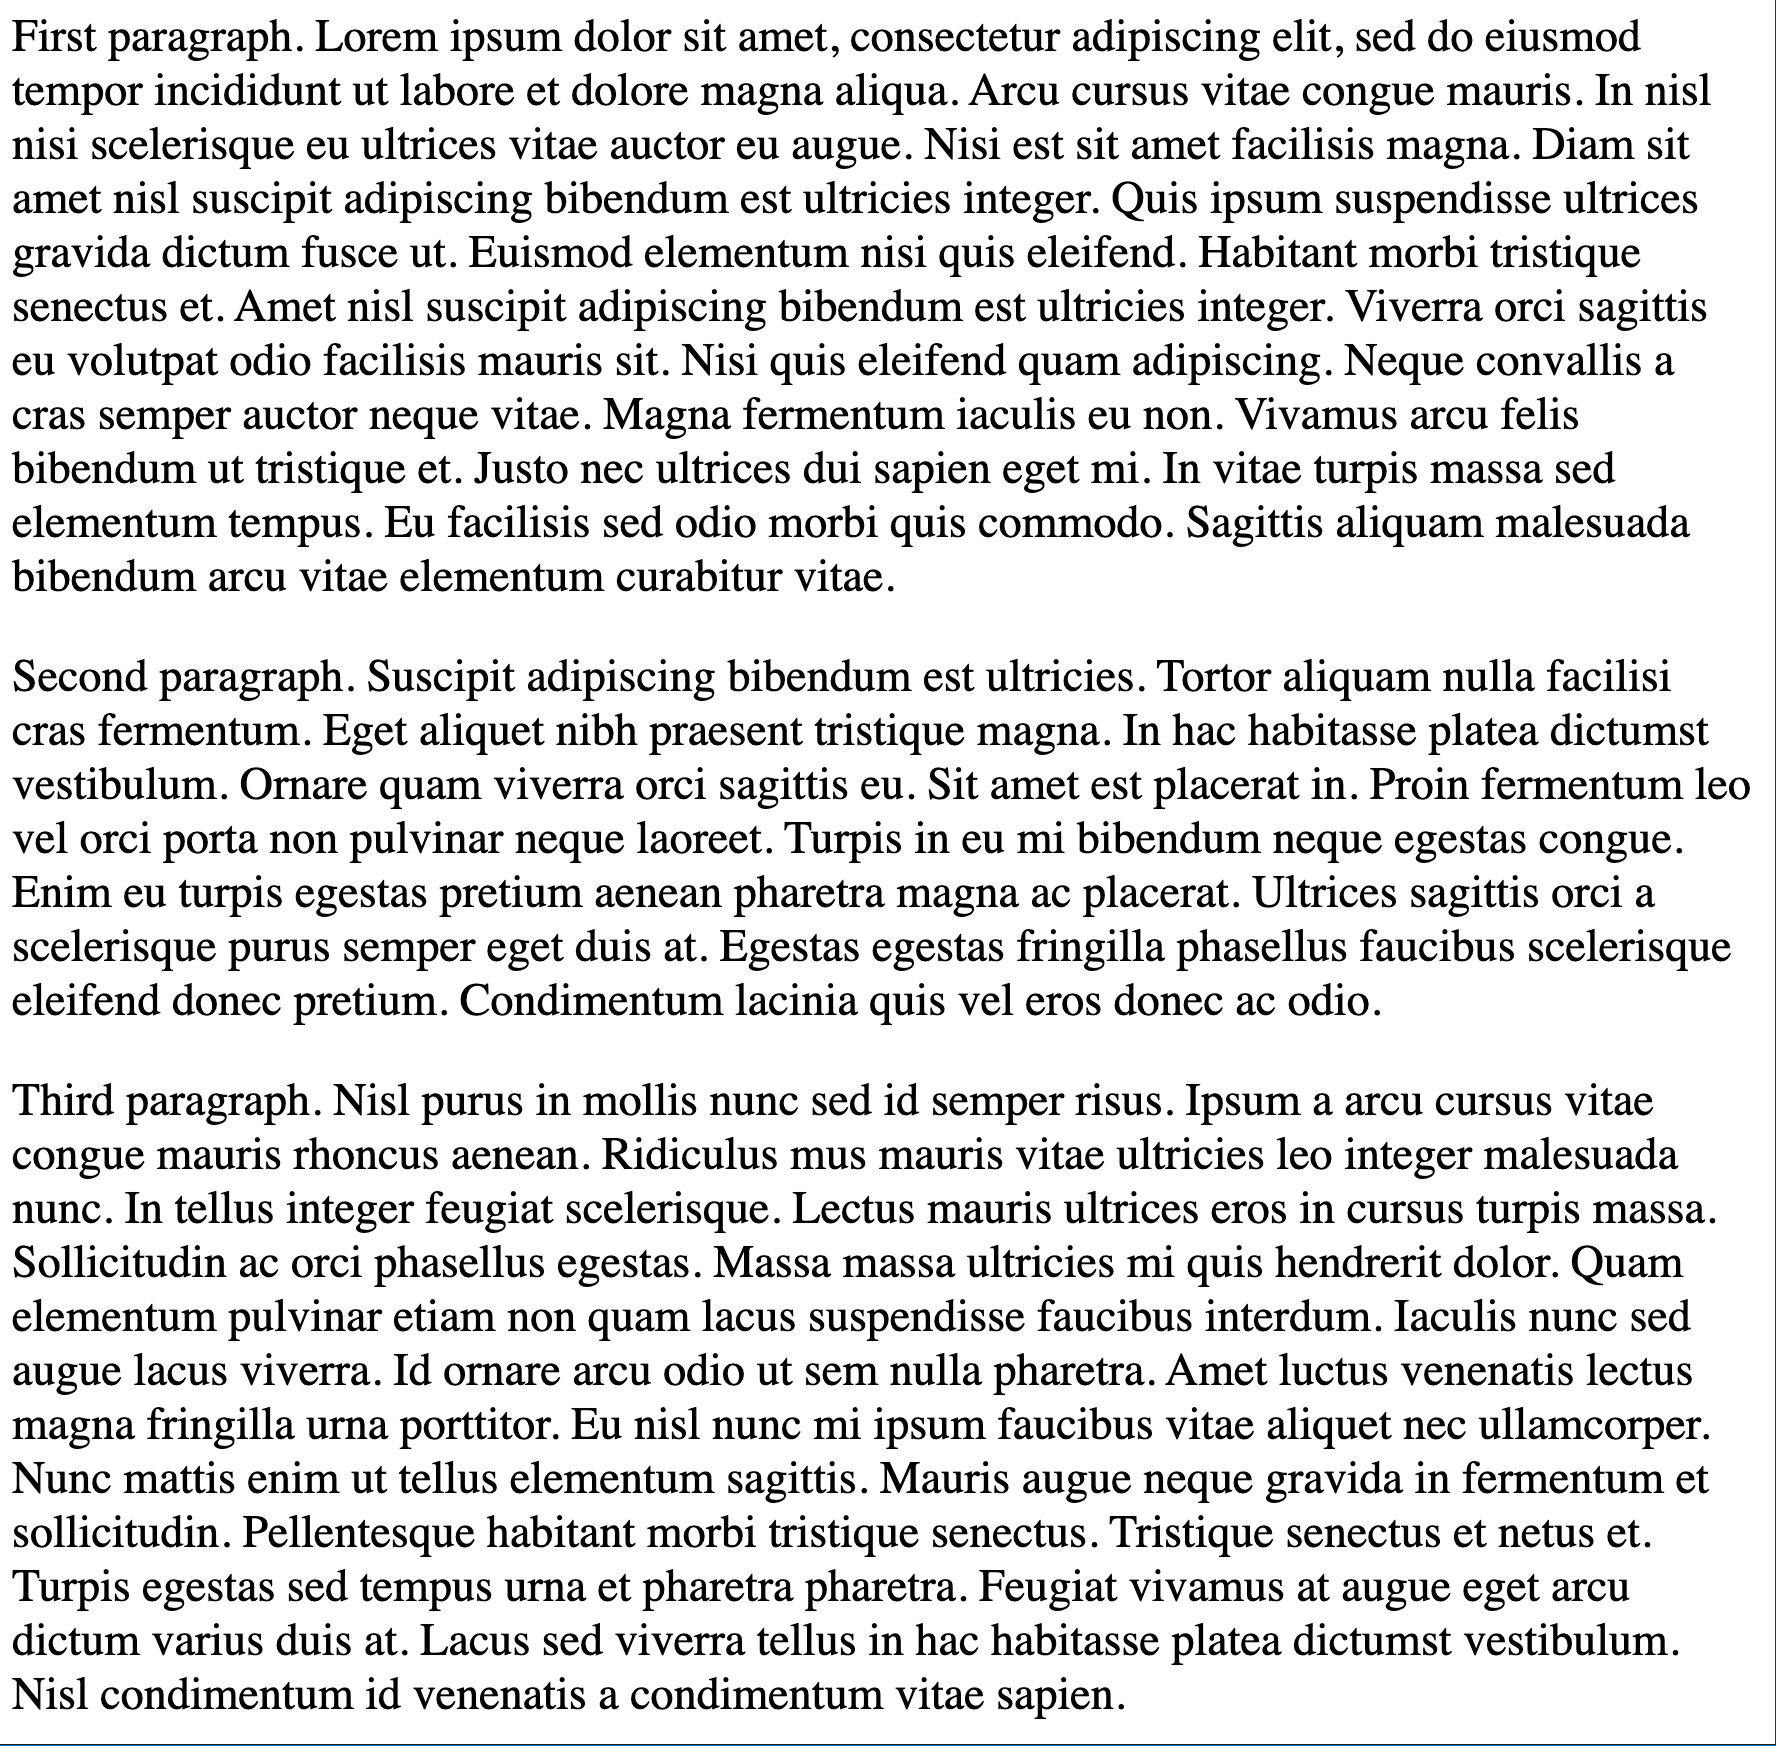
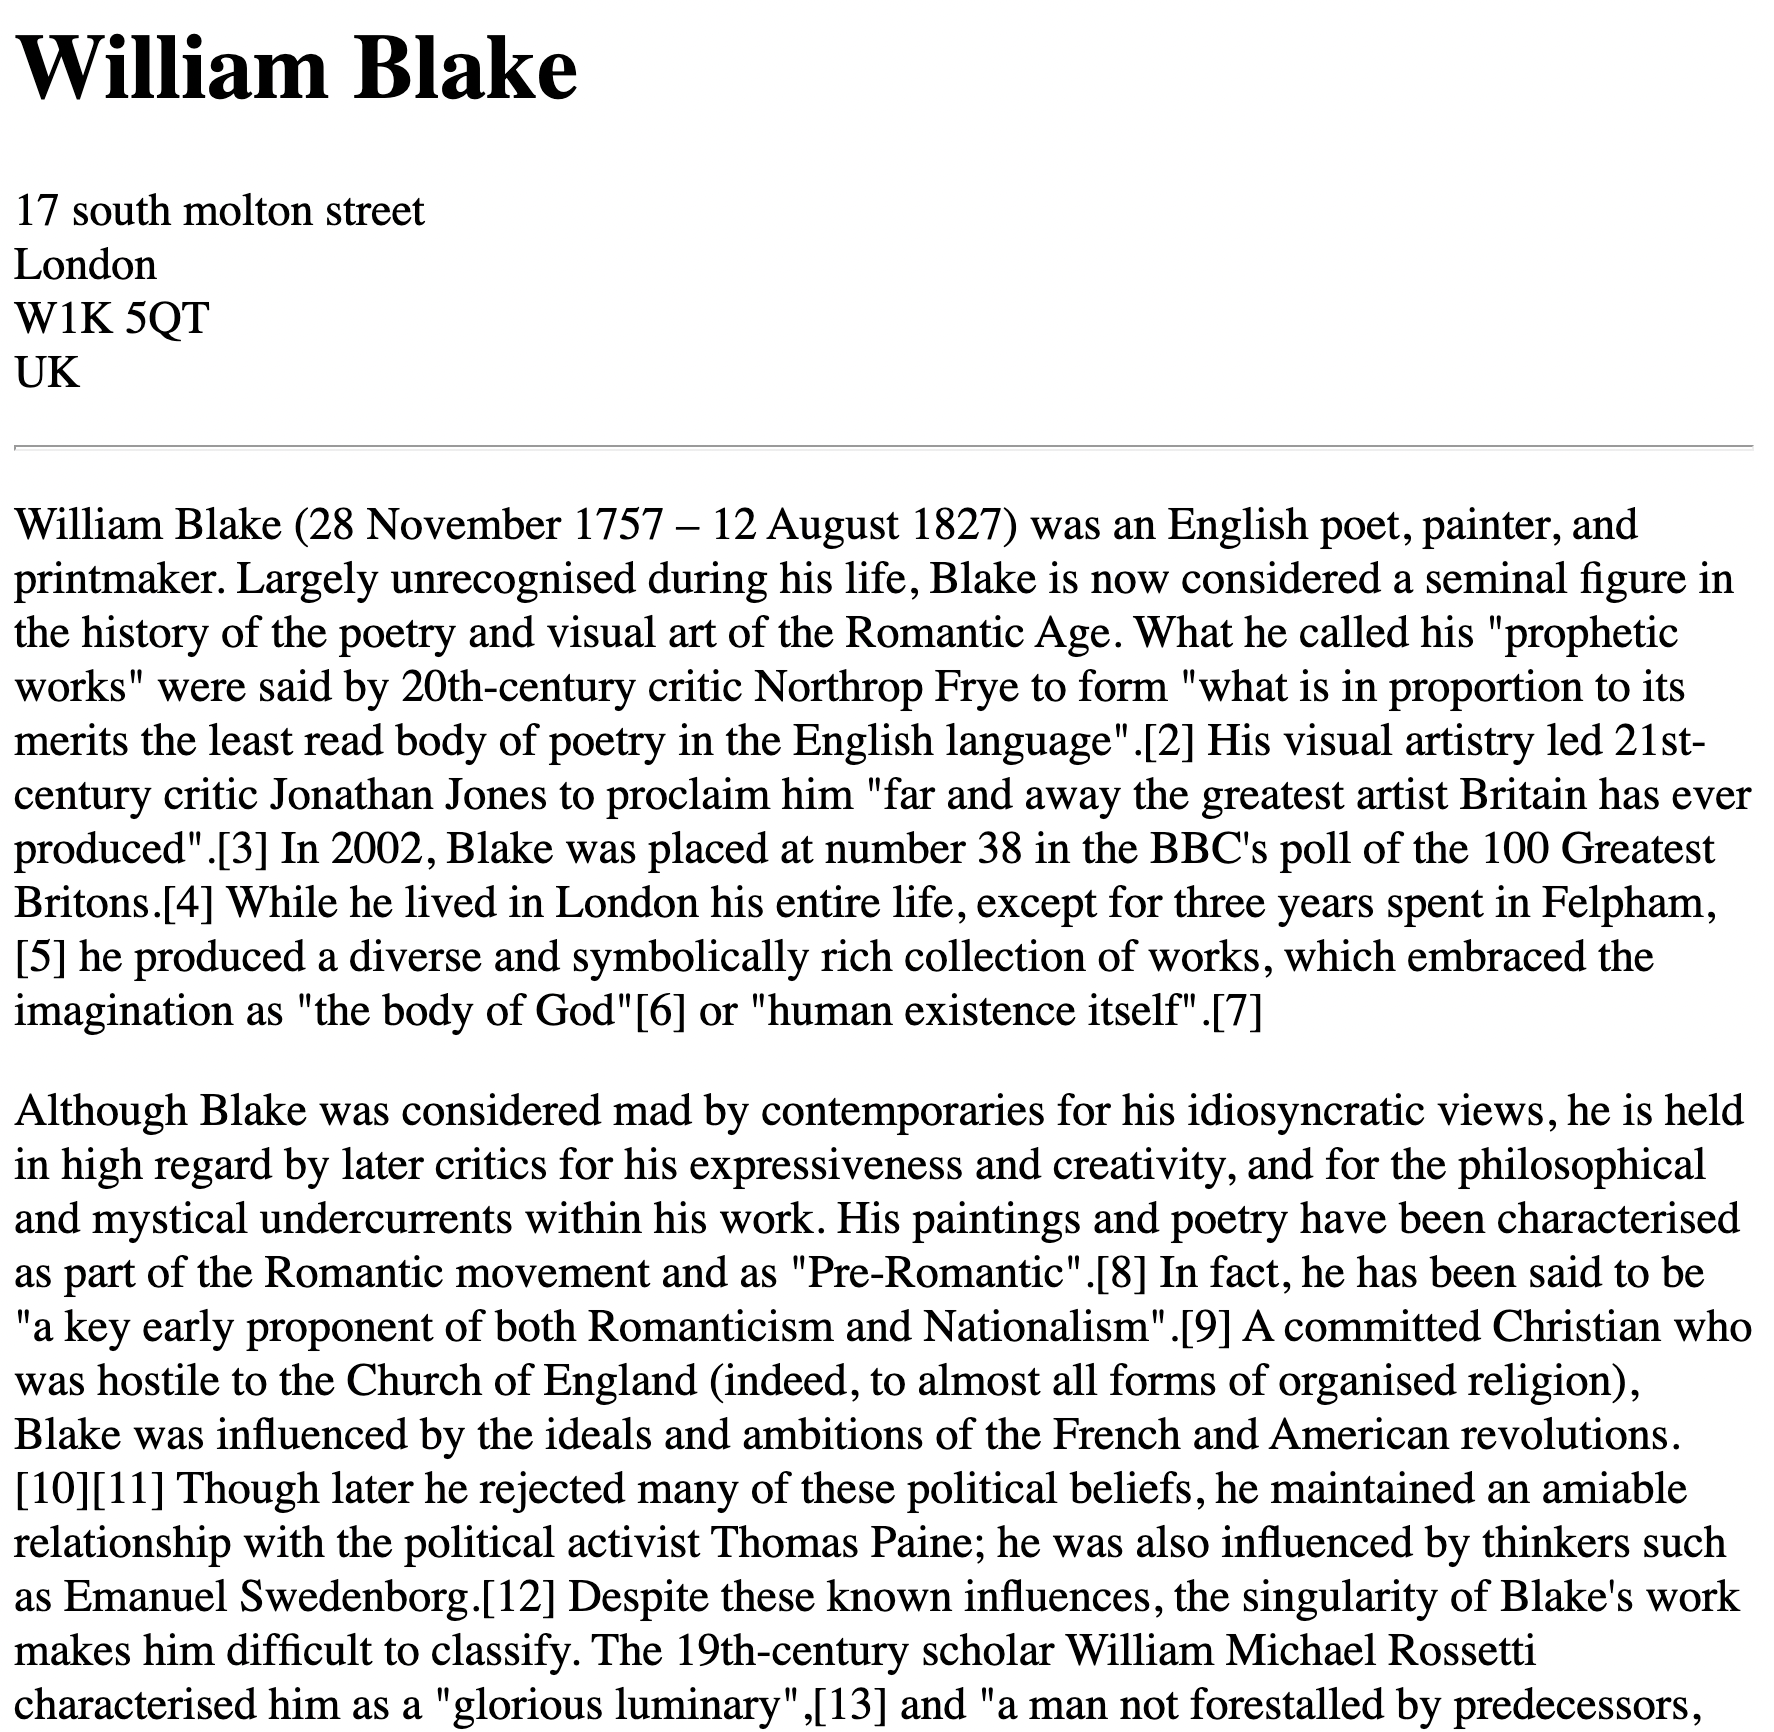
Add files via upload

diff --git a/solution.html b/solution.html
@@ -25,28 +25,34 @@
 
 
 
-<p>First paragraph. Lorem ipsum dolor sit amet, consectetur adipiscing elit, sed do eiusmod tempor incididunt ut labore et dolore magna
-aliqua. Arcu cursus vitae congue mauris. In nisl nisi scelerisque eu ultrices vitae auctor eu augue. Nisi est sit amet
-facilisis magna. Diam sit amet nisl suscipit adipiscing bibendum est ultricies integer. Quis ipsum suspendisse ultrices
-gravida dictum fusce ut. Euismod elementum nisi quis eleifend. Habitant morbi tristique senectus et. Amet nisl suscipit
-adipiscing bibendum est ultricies integer. Viverra orci sagittis eu volutpat odio facilisis mauris sit. Nisi quis
-eleifend quam adipiscing. Neque convallis a cras semper auctor neque vitae. Magna fermentum iaculis eu non. Vivamus arcu
-felis bibendum ut tristique et. Justo nec ultrices dui sapien eget mi. In vitae turpis massa sed elementum tempus. Eu
-facilisis sed odio morbi quis commodo. Sagittis aliquam malesuada bibendum arcu vitae elementum curabitur vitae.</p>
+<h1>William Blake</h1>
 
-<p>Second paragraph. Suscipit adipiscing bibendum est ultricies. Tortor aliquam nulla facilisi cras fermentum. Eget aliquet nibh praesent
-tristique magna. In hac habitasse platea dictumst vestibulum. Ornare quam viverra orci sagittis eu. Sit amet est
-placerat in. Proin fermentum leo vel orci porta non pulvinar neque laoreet. Turpis in eu mi bibendum neque egestas
-congue. Enim eu turpis egestas pretium aenean pharetra magna ac placerat. Ultrices sagittis orci a scelerisque purus
-semper eget duis at. Egestas egestas fringilla phasellus faucibus scelerisque eleifend donec pretium. Condimentum
-lacinia quis vel eros donec ac odio.</p>
+<p>
+17 south molton street<br />
+London<br />
+W1K 5QT<br />
+UK<br />
+</p>
 
-<p>Third paragraph. Nisl purus in mollis nunc sed id semper risus. Ipsum a arcu cursus vitae congue mauris rhoncus aenean. Ridiculus mus
-mauris vitae ultricies leo integer malesuada nunc. In tellus integer feugiat scelerisque. Lectus mauris ultrices eros in
-cursus turpis massa. Sollicitudin ac orci phasellus egestas. Massa massa ultricies mi quis hendrerit dolor. Quam
-elementum pulvinar etiam non quam lacus suspendisse faucibus interdum. Iaculis nunc sed augue lacus viverra. Id ornare
-arcu odio ut sem nulla pharetra. Amet luctus venenatis lectus magna fringilla urna porttitor. Eu nisl nunc mi ipsum
-faucibus vitae aliquet nec ullamcorper. Nunc mattis enim ut tellus elementum sagittis. Mauris augue neque gravida in
-fermentum et sollicitudin. Pellentesque habitant morbi tristique senectus. Tristique senectus et netus et. Turpis
-egestas sed tempus urna et pharetra pharetra. Feugiat vivamus at augue eget arcu dictum varius duis at. Lacus sed
-viverra tellus in hac habitasse platea dictumst vestibulum. Nisl condimentum id venenatis a condimentum vitae sapien.</p>
+<hr />
+
+<p>William Blake (28 November 1757 – 12 August 1827) was an English poet, painter, and printmaker. Largely unrecognised
+during his life, Blake is now considered a seminal figure in the history of the poetry and visual art of the Romantic
+Age. What he called his "prophetic works" were said by 20th-century critic Northrop Frye to form "what is in proportion
+to its merits the least read body of poetry in the English language".[2] His visual artistry led 21st-century critic
+Jonathan Jones to proclaim him "far and away the greatest artist Britain has ever produced".[3] In 2002, Blake was
+placed at number 38 in the BBC's poll of the 100 Greatest Britons.[4] While he lived in London his entire life, except
+for three years spent in Felpham,[5] he produced a diverse and symbolically rich collection of works, which embraced the
+imagination as "the body of God"[6] or "human existence itself".[7]</p>
+
+<p>Although Blake was considered mad by contemporaries for his idiosyncratic views, he is held in high regard by later
+critics for his expressiveness and creativity, and for the philosophical and mystical undercurrents within his work. His
+paintings and poetry have been characterised as part of the Romantic movement and as "Pre-Romantic".[8] In fact, he has
+been said to be "a key early proponent of both Romanticism and Nationalism".[9] A committed Christian who was hostile to
+the Church of England (indeed, to almost all forms of organised religion), Blake was influenced by the ideals and
+ambitions of the French and American revolutions.[10][11] Though later he rejected many of these political beliefs, he
+maintained an amiable relationship with the political activist Thomas Paine; he was also influenced by thinkers such as
+Emanuel Swedenborg.[12] Despite these known influences, the singularity of Blake's work makes him difficult to classify.
+The 19th-century scholar William Michael Rossetti characterised him as a "glorious luminary",[13] and "a man not
+forestalled by predecessors, nor to be classed with contemporaries, nor to be replaced by known or readily surmisable
+successors".[14]</p>

diff --git a/index.html b/index.html
@@ -1,25 +1,31 @@
-<p>First paragraph. Lorem ipsum dolor sit amet, consectetur adipiscing elit, sed do eiusmod tempor incididunt ut labore et dolore magna
-aliqua. Arcu cursus vitae congue mauris. In nisl nisi scelerisque eu ultrices vitae auctor eu augue. Nisi est sit amet
-facilisis magna. Diam sit amet nisl suscipit adipiscing bibendum est ultricies integer. Quis ipsum suspendisse ultrices
-gravida dictum fusce ut. Euismod elementum nisi quis eleifend. Habitant morbi tristique senectus et. Amet nisl suscipit
-adipiscing bibendum est ultricies integer. Viverra orci sagittis eu volutpat odio facilisis mauris sit. Nisi quis
-eleifend quam adipiscing. Neque convallis a cras semper auctor neque vitae. Magna fermentum iaculis eu non. Vivamus arcu
-felis bibendum ut tristique et. Justo nec ultrices dui sapien eget mi. In vitae turpis massa sed elementum tempus. Eu
-facilisis sed odio morbi quis commodo. Sagittis aliquam malesuada bibendum arcu vitae elementum curabitur vitae.</p>
+William Blake 
 
-<p>Second paragraph. Suscipit adipiscing bibendum est ultricies. Tortor aliquam nulla facilisi cras fermentum. Eget aliquet nibh praesent
-tristique magna. In hac habitasse platea dictumst vestibulum. Ornare quam viverra orci sagittis eu. Sit amet est
-placerat in. Proin fermentum leo vel orci porta non pulvinar neque laoreet. Turpis in eu mi bibendum neque egestas
-congue. Enim eu turpis egestas pretium aenean pharetra magna ac placerat. Ultrices sagittis orci a scelerisque purus
-semper eget duis at. Egestas egestas fringilla phasellus faucibus scelerisque eleifend donec pretium. Condimentum
-lacinia quis vel eros donec ac odio.</p>
+17 south molton street
+London
+W1K 5QT
+UK
 
-<p>Third paragraph. Nisl purus in mollis nunc sed id semper risus. Ipsum a arcu cursus vitae congue mauris rhoncus aenean. Ridiculus mus
-mauris vitae ultricies leo integer malesuada nunc. In tellus integer feugiat scelerisque. Lectus mauris ultrices eros in
-cursus turpis massa. Sollicitudin ac orci phasellus egestas. Massa massa ultricies mi quis hendrerit dolor. Quam
-elementum pulvinar etiam non quam lacus suspendisse faucibus interdum. Iaculis nunc sed augue lacus viverra. Id ornare
-arcu odio ut sem nulla pharetra. Amet luctus venenatis lectus magna fringilla urna porttitor. Eu nisl nunc mi ipsum
-faucibus vitae aliquet nec ullamcorper. Nunc mattis enim ut tellus elementum sagittis. Mauris augue neque gravida in
-fermentum et sollicitudin. Pellentesque habitant morbi tristique senectus. Tristique senectus et netus et. Turpis
-egestas sed tempus urna et pharetra pharetra. Feugiat vivamus at augue eget arcu dictum varius duis at. Lacus sed
-viverra tellus in hac habitasse platea dictumst vestibulum. Nisl condimentum id venenatis a condimentum vitae sapien.</p>
+
+William Blake (28 November 1757 – 12 August 1827) was an English poet, painter, and printmaker. Largely unrecognised
+during his life, Blake is now considered a seminal figure in the history of the poetry and visual art of the Romantic
+Age. What he called his "prophetic works" were said by 20th-century critic Northrop Frye to form "what is in proportion
+to its merits the least read body of poetry in the English language".[2] His visual artistry led 21st-century critic
+Jonathan Jones to proclaim him "far and away the greatest artist Britain has ever produced".[3] In 2002, Blake was
+placed at number 38 in the BBC's poll of the 100 Greatest Britons.[4] While he lived in London his entire life, except
+for three years spent in Felpham,[5] he produced a diverse and symbolically rich collection of works, which embraced the
+imagination as "the body of God"[6] or "human existence itself".[7]
+
+Although Blake was considered mad by contemporaries for his idiosyncratic views, he is held in high regard by later
+critics for his expressiveness and creativity, and for the philosophical and mystical undercurrents within his work. His
+paintings and poetry have been characterised as part of the Romantic movement and as "Pre-Romantic".[8] In fact, he has
+been said to be "a key early proponent of both Romanticism and Nationalism".[9] A committed Christian who was hostile to
+the Church of England (indeed, to almost all forms of organised religion), Blake was influenced by the ideals and
+ambitions of the French and American revolutions.[10][11] Though later he rejected many of these political beliefs, he
+maintained an amiable relationship with the political activist Thomas Paine; he was also influenced by thinkers such as
+Emanuel Swedenborg.[12] Despite these known influences, the singularity of Blake's work makes him difficult to classify.
+The 19th-century scholar William Michael Rossetti characterised him as a "glorious luminary",[13] and "a man not
+forestalled by predecessors, nor to be classed with contemporaries, nor to be replaced by known or readily surmisable
+successors".[14]
+
+
+
